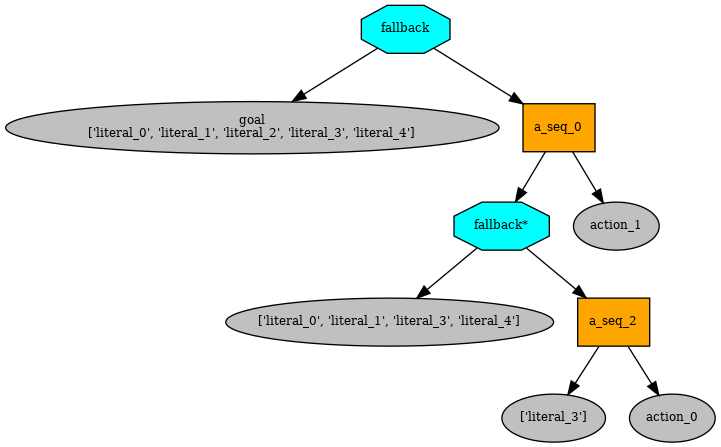
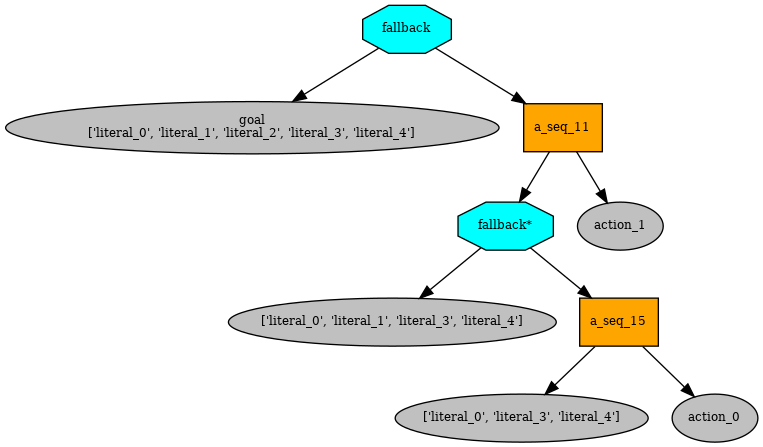
Capture Tree size metric and comparison between implementations

diff --git a/ros_ws/src/basic_trees/basic_trees/Testing/test_tree.py b/ros_ws/src/basic_trees/basic_trees/Testing/test_tree.py
@@ -20,7 +20,12 @@ def createRoot(goal_state):
 
 def setupWorld(blackboard, init_state):
     # Dynamic world state
-    blackboard.register_key(key="world_state", access=py_trees.common.Access.WRITE)
+    if blackboard.is_registered(key="world_state", access=py_trees.common.Access.WRITE):
+        # Key already exists, need to reset it
+        blackboard.unset("world_state")
+    else:
+        blackboard.register_key(key="world_state", access=py_trees.common.Access.WRITE)
+    
     blackboard.world_state = init_state # init_state should be a set
 
 
@@ -29,7 +34,7 @@ def getAction(action_str, action_database):
     return TestAction(name=action_str, action_database=action_database)
 
 
-def runTree(init_state, goal_state, action_database):
+def runTree(init_state, goal_state, action_database, traverse=BFS(), scorer=None):
     # Create the tree
     root = createRoot(goal_state)
     tree = py_trees.trees.BehaviourTree(
@@ -43,9 +48,6 @@ def runTree(init_state, goal_state, action_database):
 
     # Set up the tree
     tree.setup()
-    
-    traverse = BFS()            # EDIT traversal function here
-    scorer = None     # EDIT cost metric for adding actions in expand here
     
     # traverse = DFS()            # EDIT traversal function here
     # scorer = ConditionCompletionScorer(Action_Database)     # EDIT cost metric for adding actions in expand here
@@ -80,16 +82,48 @@ def runTree(init_state, goal_state, action_database):
             tree.root = root
 
     py_trees.display.render_dot_tree(root, name="test_tree")
+    return root
 
+
+def getNodeCount(root):
+    # Traverse the entire tree and count the total amount of nodes
+    q = []  # Initialize queue
+    q.append(root)  # Add start node to queue
+    
+    count = 0
+
+    while len(q) != 0:
+        # Keep searching while queue is not empty
+        node = q.pop(0)
+        count += 1
+
+        if isinstance(node, py_trees.composites.Composite):
+            # Only composite types (actions) have children
+            q.extend(node.children)
+
+    print("Total Number of Nodes: ", count, "\n")
+    return count
 
 def main():
+    # Generate Solution
     all_literals = generateLiterals()
     states_database, action_database = generateSolution(all_literals)
-
     printTestSet(all_literals, states_database, action_database)
 
-    runTree(states_database[0], states_database[-1], action_database)
+    # Run the Tree
+    # Randomly Placed Actions
+    paper_root = runTree(states_database[0].copy(), states_database[-1], action_database)
 
+    # Sorted Actions
+    root = runTree(states_database[0].copy(), states_database[-1], action_database, 
+                   DFS(), ConditionCompletionScorer(action_database))
+
+    
+    # Record Metrics for solved trees
+    if paper_root: 
+        getNodeCount(paper_root)
+    if root:
+        getNodeCount(root)
 
 if __name__ == '__main__':
     main()

diff --git a/ros_ws/src/basic_trees/basic_trees/Testing/setup_tests.py b/ros_ws/src/basic_trees/basic_trees/Testing/setup_tests.py
@@ -4,8 +4,8 @@ import random
 
 # Test Setup Parameters
 NUM_OF_LITERALS = 5   # Amount of literals 2^N possible states
-DISTANCE = 4    # Amount of states from start to goal
-ITERATIONS = 2  # Amount of times to branch from generated path
+DISTANCE = 10    # Amount of states from start to goal
+ITERATIONS = 10  # Amount of times to branch from generated path
 
 
 def generateAction(literals, state):
